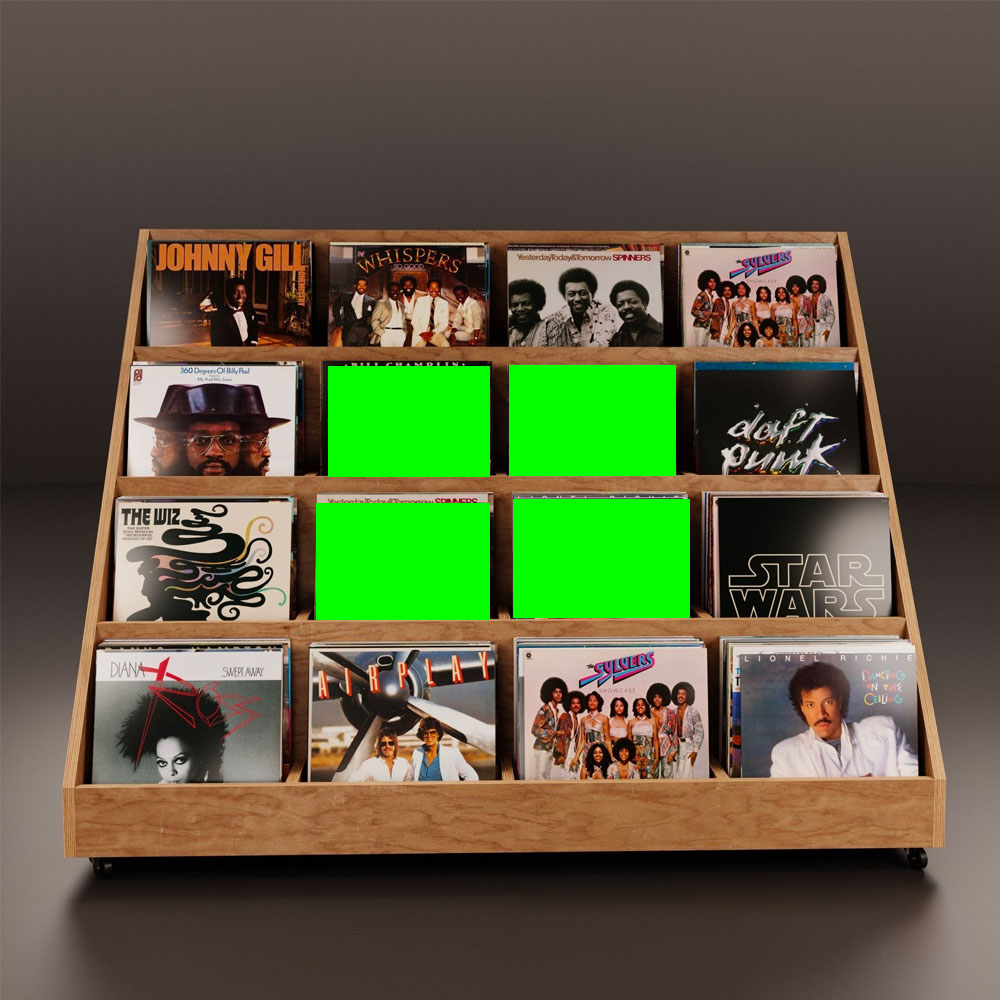
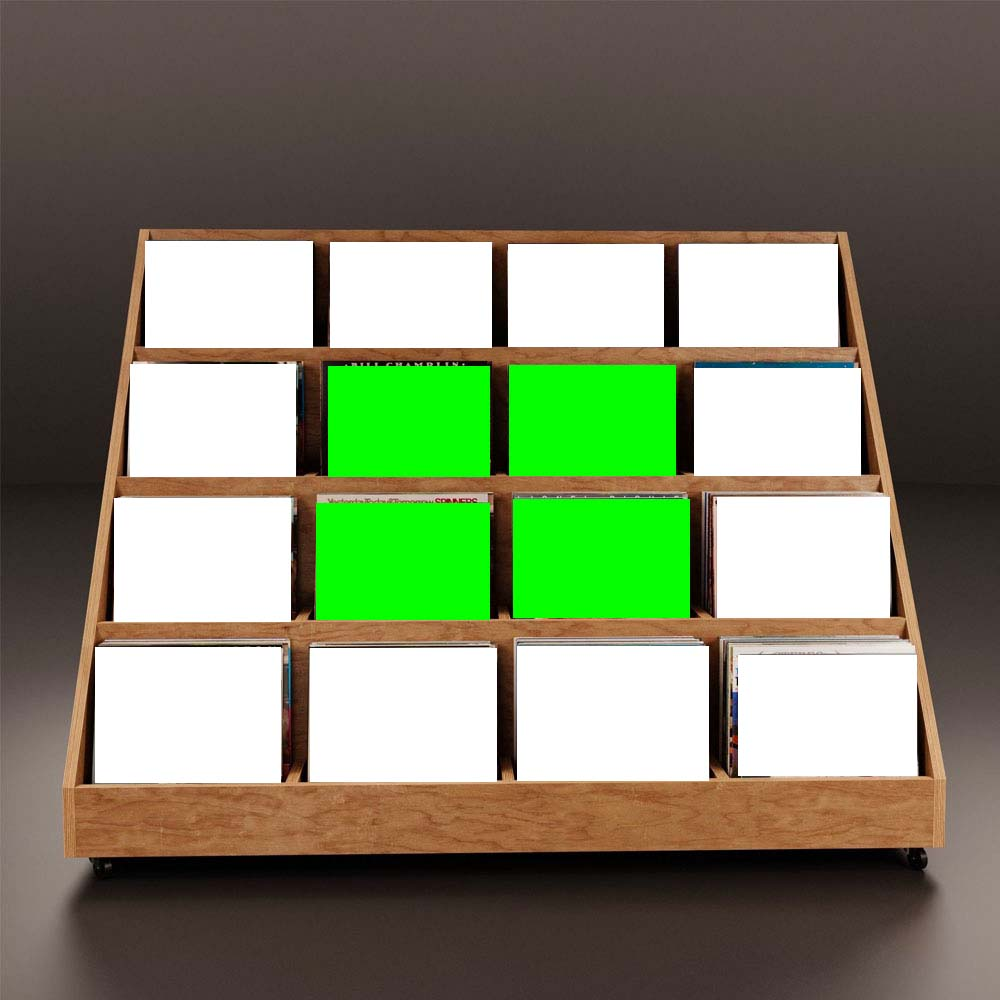
Finished the project 😮💨

Changed region(s): [[0.093, 0.217, 0.899, 0.806], [0.31, 0.62, 0.93, 0.806], [0.341, 0.465, 0.527, 0.527]]

diff --git a/index.html b/index.html
@@ -16,12 +16,17 @@
                 <button id="getImageButton">GET IMAGE</button>
             </div>
 
-            <br>
+            <br><br><br>
 
-            <div style="margin: auto;">
-                <img id="mainImg" src="vinyl_rack.jpg" alt="The template for the 'Virgin Recommends' image">
-                <!-- <img src="https://i.scdn.co/image/ab67616d00001e022a7db835b912dc5014bd37f4" alt="Kanye West - The Life of Pablo"> -->
+            <div id="rack" style="margin: auto;">
+                <img id="mainImg" draggable="false" src="vinyl_rack.jpg" alt="The template for the 'Virgin Recommends' image">
+                
+                <img id="img0" draggable="false" class="albumArt" src="" alt="Artist - Album">
+                <img id="img1" draggable="false" class="albumArt" style="transform: translate(-197px, 143px); width: 68px;" src="" alt="Artist - Album">
+                <img id="img2" draggable="false" class="albumArt" style="transform: translate(-274px, 199px); z-index: 11; width: 70px;" src="" alt="Artist - Album">
+                <img id="img3" draggable="false" class="albumArt" style="transform: translate(-195px, 199px); z-index: 11; width: 71px; clip-path: polygon(0% 0%, 100% 0%, 100% 68%, 0% 68%);" src="" alt="Artist - Album">
             </div>
         </div>
+        <canvas id="canvas"></canvas>
     </body>
 </html>

diff --git a/index.js b/index.js
@@ -1,3 +1,5 @@
+var albumCounter = 0;
+
 /**
  * The function for getting the album art data
  * @param  {string} Artist The name of the artist
@@ -6,11 +8,19 @@
 // DONE: Make the function display the album artwork returned as <img> tags.
 async function createAlbumArtDiv(artist, album) {
     albumArt( artist, {album: album, size: 'medium'} ).then( imgUrl => {
-        var div = document.createElement("div");
-        var img = document.createElement("img");
+        var img = document.getElementById(`img${albumCounter}`);
         img.src = imgUrl;
-        div.append(img);
-        document.body.append(div);
+        img.alt = `${artist} - ${album}`;
+        albumCounter++;
+
+        if (albumCounter == 4) {
+            document.getElementById("rack").style.position = "fixed";
+            document.getElementById("rack").style.bottom = "25%";
+            document.getElementById("rack").style.top = "25%";
+            
+            document.getElementById("form").remove();
+            alert("You have successfully created the artwork. Now you can take a screenshot to save your creation.\n\nWARNING: The creation will be lost once you leave the page!");
+        }
     });
 }
 

diff --git a/style.css b/style.css
@@ -13,12 +13,7 @@ body {
     align-items: center;
 }
 
-/* div {
-    margin: 5px;
-} */
-
 #form {
-    /* margin: auto; */
     display: flex;
     flex-direction: column;
     align-items: center;
@@ -27,6 +22,15 @@ body {
 #mainImg {
     width: 400px;
     height: 400px
+}
+
+.albumArt {
+    position: absolute;
+    transform: translate(-269px, 146px);
+    opacity: 100%;
+    width: 65px;
+    z-index: 10;
+    clip-path: polygon(0% 0%, 100% 0%, 100% 70%, 0% 70%);
 }
 
 input {
@@ -52,12 +56,11 @@ button {
     text-align: center;
     text-shadow: 0 1px 2px rgba(0, 0, 0, 0.25);
     border: 0;
-    /* background: #c0392b; */
     background: rgb(38, 38, 38);
-    border-bottom: 2px solid rgb(25, 25, 25)/*#b53224*/;
+    border-bottom: 2px solid rgb(25, 25, 25);
     cursor: pointer;
-    -webkit-box-shadow: inset 0 -2px rgb(25, 25, 25)/*#b53224*/;
-    box-shadow: inset 0 -2px rgb(25, 25, 25)/*#b53224*/;
+    -webkit-box-shadow: inset 0 -2px rgb(25, 25, 25);
+    box-shadow: inset 0 -2px rgb(25, 25, 25);
     font-weight: bold;
 }
 button:active {
